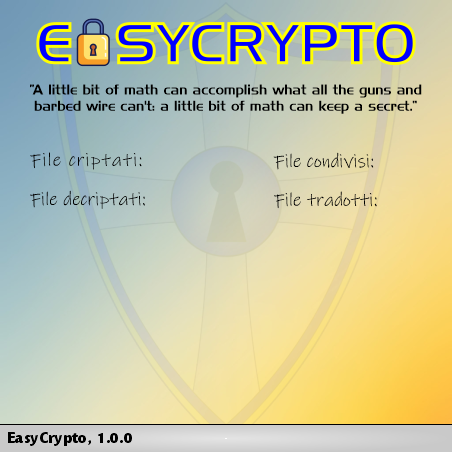
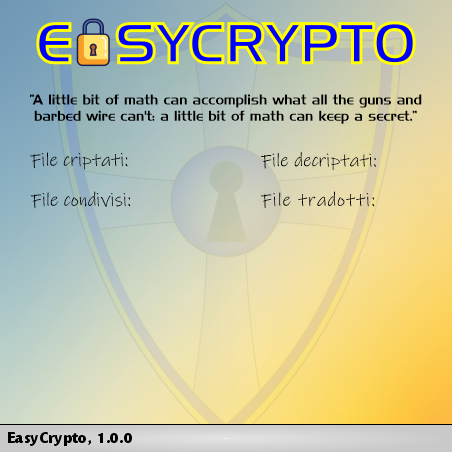
MainGui improvements
- Final details on the MainGui interface have been completed.
- Improved the readability of the MainGui code (not finished yet)
- Bug fixes

diff --git a/src/MainGui.py b/src/MainGui.py
@@ -1,103 +1,156 @@
-import os.path
-
+import os
 import web
-import alerts
+import alerts as alt
 import tkinter as tk
-import local_crypter as lc
-from counter import Counter
-import passwordgui as pwgui
-from rsa_utils import Share
 from config import Config
+import local_crypter as lc
+import passwordgui as pwgui
+from counter import Counter
+from rsa_utils import Share
 import rsa_encryption as rsa
 from tkinter import filedialog
 from getusernamegui import get_username
 
 
-def init():
-    win = tk.Tk()
+class MainGui:
 
-    WIDTH = 450
-    HEIGHT = 450
+    def __init__(self):
 
-    WINDOW_ICON = tk.PhotoImage(file='res/logo.png', master=win)
-    BACKGROUND_IMAGE = tk.PhotoImage(file='res/background.png', master=win)
-    CRYPT_IMAGE = tk.PhotoImage(file='res/crypt.png', master=win)
-    CRYPT_IMAGE_HOVERED = tk.PhotoImage(file='res/crypt_hovered.png', master=win)
-    DECRYPT_IMAGE = tk.PhotoImage(file='res/decrypt.png', master=win)
-    DECRYPT_IMAGE_HOVERED = tk.PhotoImage(file='res/decrypt_hovered.png', master=win)
-    SHARE_IMAGE = tk.PhotoImage(file='res/share.png', master=win)
-    SHARE_IMAGE_HOVERED = tk.PhotoImage(file='res/share_hovered.png', master=win)
-    DECRYPT_EXTERNAL_FILE_IMAGE = tk.PhotoImage(file='res/decrypt_external_file.png', master=win)
-    DECRYPT_EXTERNAL_FILE_IMAGE_HOVERED = tk.PhotoImage(file='res/decrypt_external_file_hovered.png', master=win)
-    INFO_IMAGE = tk.PhotoImage(file='res/info.png', master=win)
-    INFO_IMAGE_HOVERED = tk.PhotoImage(file='res/info_hovered.png', master=win)
-    GITHUB_IMAGE = tk.PhotoImage(file='res/github.png', master=win)
-    GITHUB_IMAGE_HOVERED = tk.PhotoImage(file='res/github_hovered.png', master=win)
-    SETTINGS_IMAGE = tk.PhotoImage(file='res/settings.png', master=win)
-    SETTINGS_IMAGE_HOVERED = tk.PhotoImage(file='res/settings_hovered.png', master=win)
+        self.win = tk.Tk()
 
-    x = int(win.winfo_screenwidth() / 2 - (WIDTH / 2))
-    y = int(win.winfo_screenheight() / 2 - (HEIGHT / 2))
+        self.WIDTH = 450
+        self.HEIGHT = 450
+        self.WINDOW_ICON = tk.PhotoImage(file='res/logo.png', master=self.win)
+        self.BACKGROUND_IMAGE = tk.PhotoImage(file='res/background.png', master=self.win)
+        self.x = int(self.win.winfo_screenwidth() / 2 - (self.WIDTH / 2))
+        self.y = int(self.win.winfo_screenheight() / 2 - (self.HEIGHT / 2))
 
-    win.title('EasyCrypto')
-    win.geometry(str(WIDTH) + 'x' + str(HEIGHT) + '+' + str(x) + '+' + str(y))
-    win.resizable(False, False)
-    win.iconphoto(True, WINDOW_ICON)
-    win.protocol("WM_DELETE_WINDOW", lambda: correct_closing(win))
+        self.win.title('EasyCrypto')
+        self.win.geometry(str(self.WIDTH) + 'x' + str(self.HEIGHT) + '+' + str(self.x) + '+' + str(self.y))
+        self.win.resizable(False, False)
+        self.win.iconphoto(True, self.WINDOW_ICON)
+        self.win.protocol("WM_DELETE_WINDOW", lambda: self.correct_closing())
+        self.bg = tk.Canvas(self.win, width=450, height=450)
+        self.bg.create_image(226, 226, image=self.BACKGROUND_IMAGE)
 
-    # functions
+        self.counter_font = ('Courier', 14)
+        self.readme = 'https://github.com/RichardBoy05/EasyCrypto/blob/main/README.md'
+        self.explorer_files = [('Tutti i file', '*.*')]
 
-    def execute(is_encrypted, is_internal):
+        enc_text = Config.parse_with_key('TotalEncryptions', True)
+        dec_text = Config.parse_with_key('TotalDecryptions', True)
+        shr_text = Config.parse_with_key('TotalShares', True)
+        trs_text = Config.parse_with_key('TotalTranslations', True)
+        self.encrypt_count = self.bg.create_text(162, 161, text=enc_text, font=self.counter_font, anchor='center')
+        self.decrypt_count = self.bg.create_text(412, 161, text=dec_text, font=self.counter_font, anchor='center')
+        self.share_count = self.bg.create_text(162, 200, text=shr_text, font=self.counter_font, anchor='center')
+        self.translate_count = self.bg.create_text(412, 200, text=trs_text, font=self.counter_font, anchor='center')
 
-        files = [('Tutti i file', '*.*')]
-        path = tk.filedialog.askopenfilenames(title='Seleziona uno o più file...', filetypes=files)
+        ENC_IMG = tk.PhotoImage(file='res/crypt.png', master=self.win)
+        ENC_IMG_HOV = tk.PhotoImage(file='res/crypt_hovered.png', master=self.win)
+        DEC_IMG = tk.PhotoImage(file='res/decrypt.png', master=self.win)
+        DEC_IMG_HOV = tk.PhotoImage(file='res/decrypt_hovered.png', master=self.win)
+        SHR_IMG = tk.PhotoImage(file='res/share.png', master=self.win)
+        SHR_IMG_HOV = tk.PhotoImage(file='res/share_hovered.png', master=self.win)
+        TRS_IMG = tk.PhotoImage(file='res/translate.png', master=self.win)
+        TRS_IMG_HOV = tk.PhotoImage(file='res/translate_hovered.png', master=self.win)
+        INFO_IMG = tk.PhotoImage(file='res/info.png', master=self.win)
+        INFO_IMG_HOV = tk.PhotoImage(file='res/info_hovered.png', master=self.win)
+        GIT_IMG = tk.PhotoImage(file='res/github.png', master=self.win)
+        GIT_IMG_HOV = tk.PhotoImage(file='res/github_hovered.png', master=self.win)
+        SETTINGS_IMG = tk.PhotoImage(file='res/settings.png', master=self.win)
+        SETTINGS_IMG_HOV = tk.PhotoImage(file='res/settings_hovered.png', master=self.win)
+
+        # widgets
+
+        enc_but = tk.Button(self.win, image=ENC_IMG, bd=0, bg='#0c11a8', command=lambda: self.execute('encrypt'))
+        dec_but = tk.Button(self.win, image=DEC_IMG, bd=0, bg='#f0a000', command=lambda: self.execute('decrypt'))
+        shr_but = tk.Button(self.win, image=SHR_IMG, bd=0, bg='#0c11a8', command=lambda: self.execute('share'))
+        trs_but = tk.Button(self.win, image=TRS_IMG, bd=0, bg='#f0a000', command=lambda: self.execute('translate'))
+        info_lab = tk.Label(self.win, image=INFO_IMG, bd=0, bg='#cbcbcb')
+        git_lab = tk.Label(self.win, image=GIT_IMG, bd=0, bg='#cbcbcb')
+        settings_lab = tk.Label(self.win, image=SETTINGS_IMG, bd=0, bg='#cbcbcb')
+
+        # Hover events
+
+        enc_but.bind("<Enter>", lambda _: enc_but.config(image=ENC_IMG_HOV))
+        enc_but.bind("<Leave>", lambda _: enc_but.config(image=ENC_IMG))
+        dec_but.bind("<Enter>", lambda _: dec_but.config(image=DEC_IMG_HOV))
+        dec_but.bind("<Leave>", lambda _: dec_but.config(image=DEC_IMG))
+        shr_but.bind("<Enter>", lambda _: shr_but.config(image=SHR_IMG_HOV))
+        shr_but.bind("<Leave>", lambda _: shr_but.config(image=SHR_IMG))
+        trs_but.bind("<Enter>", lambda _: trs_but.config(image=TRS_IMG_HOV))
+        trs_but.bind("<Leave>", lambda _: trs_but.config(image=TRS_IMG))
+        info_lab.bind("<Enter>", lambda _: info_lab.config(image=INFO_IMG_HOV))
+        info_lab.bind("<Leave>", lambda _: info_lab.config(image=INFO_IMG))
+        info_lab.bind("<Button-1>", lambda _: web.Browser(self.readme).search())
+        git_lab.bind("<Enter>", lambda _: git_lab.config(image=GIT_IMG_HOV))
+        git_lab.bind("<Leave>", lambda _: git_lab.config(image=GIT_IMG))
+        git_lab.bind("<Button-1>", lambda _: web.Browser('https://github.com/RichardBoy05/EasyCrypto').search())
+        settings_lab.bind("<Enter>", lambda _: settings_lab.config(image=SETTINGS_IMG_HOV))
+        settings_lab.bind("<Leave>", lambda _: settings_lab.config(image=SETTINGS_IMG))
+
+        # placing
+
+        self.bg.place(x=-2, y=-2)
+        enc_but.place(x=28, y=237)
+        dec_but.place(x=248, y=237)
+        trs_but.place(x=248, y=337)
+        shr_but.place(x=28, y=337)
+        info_lab.place(x=363, y=428)
+        git_lab.place(x=391, y=428)
+        settings_lab.place(x=419, y=428)
+
+        self.win.mainloop()
+
+    def execute(self, task):
+
+        path = tk.filedialog.askopenfilenames(title='Seleziona uno o più file...', filetypes=self.explorer_files)
 
         if not path:
             return
 
-        if not is_encrypted and is_internal:
-            result = pwgui.ask_password(win, True, True if len(path) == 1 else False)
-            password = result[0]
-            keep_copy = result[1]
-
+        if task == 'encrypt':
+            result = pwgui.ask_password(self.win, True, True if len(path) == 1 else False)
+            password, keepcopy = result
             if not password:
                 return
 
-            has_been_encrypted = [lc.encrypt(win, i, password.encode('utf-8'), keep_copy) for i in path]
+            has_been_encrypted = [lc.encrypt(self.win, i, password.encode('utf-8'), keepcopy) for i in path]
 
             for i in has_been_encrypted:
                 if i:
-                    Counter(win, background_canv.itemcget(encrypt_count, 'text'), encrypt_count).update('TotalEncryptions')
+                    Counter(self.win, self.bg.itemcget(self.encrypt_count, 'text'),
+                            self.encrypt_count).update('TotalEncryptions')
 
             if all(has_been_encrypted):
-                alerts.encrypted_successfully_alert(len(path))
+                alt.encrypted_successfully_alert(len(path))
             return
 
-        if is_encrypted and is_internal:
-            result = pwgui.ask_password(win, False, True if len(path) == 1 else False)
-            password = result[0]
-            keep_copy = result[1]
-
+        if task == 'decrypt':
+            result = pwgui.ask_password(self.win, False, True if len(path) == 1 else False)
+            password, keepcopy = result
             if not password:
                 return
 
-            has_been_decrypted = [lc.decrypt(win, i, password.encode('utf-8'), keep_copy) for i in path]
+            has_been_decrypted = [lc.decrypt(self.win, i, password.encode('utf-8'), keepcopy) for i in path]
 
             for i in has_been_decrypted:
                 if i:
-                    Counter(win, background_canv.itemcget(decrypt_count, 'text'), decrypt_count).update('TotalDecryptions')
+                    Counter(self.win, self.bg.itemcget(self.decrypt_count, 'text'),
+                            self.decrypt_count).update('TotalDecryptions')
 
             if all(has_been_decrypted):
-                alerts.decrypted_successfully_alert(len(path))
+                alt.decrypted_successfully_alert(len(path))
             return
 
-        if not is_encrypted and not is_internal:
+        if task == 'share':
 
             fixed_path = [i for i in path if not Share.is_already_shared(i)]
             if len(fixed_path) == 0:
                 return
 
-            username = get_username(win)
+            username = get_username(self.win)
             if username is None:
                 return
 
@@ -105,89 +158,34 @@ def init():
 
             for i in has_been_shared:
                 if i:
-                    Counter(win, background_canv.itemcget(share_count, 'text'), share_count).update('TotalShares')
+                    Counter(self.win, self.bg.itemcget(self.share_count, 'text'), self.share_count).update('TotalShares')
 
             if all(has_been_shared):
-                alerts.shared_successfully_alert(len(fixed_path))
+                alt.shared_successfully_alert(len(fixed_path))
             return
 
-        if is_encrypted and not is_internal:
+        if task == 'translate':
 
             has_been_translated = [rsa.translate(i) for i in path]
 
             for i in has_been_translated:
                 if i:
-                    Counter(win, background_canv.itemcget(share_count, 'text'), translate_count).update('TotalTranslations')
+                    Counter(self.win, self.bg.itemcget(self.share_count, 'text'),
+                            self.translate_count).update('TotalTranslations')
 
             if all(has_been_translated):
-                alerts.translated_successfully_alert(len(path))
+                alt.translated_successfully_alert(len(path))
             return
 
-    def show_settings():
-        pass
+    def correct_closing(self):
+        PATH = os.path.join(os.getenv('APPDATA'), 'EasyCrypto')
+        CRYPT_PATH = os.path.join(PATH, 'crypt')
 
-    # widgets
+        if os.path.exists(os.path.join(CRYPT_PATH, "firstboot")):
+            os.remove(os.path.join(CRYPT_PATH, "firstboot"))
 
-    counter_font = ('Courier', 14)
-
-    background_canv = tk.Canvas(win, width=450, height=450)
-    background_canv.create_image(226, 226, image=BACKGROUND_IMAGE)
-    encrypt_but = tk.Button(win, image=CRYPT_IMAGE, borderwidth=0, bg='#0c11a8', command=lambda: execute(False, True))
-    decrypt_but = tk.Button(win, image=DECRYPT_IMAGE, borderwidth=0, bg='#f0a000', command=lambda: execute(True, True))
-    share_but = tk.Button(win, image=SHARE_IMAGE, borderwidth=0, bg='#0c11a8', command=lambda: execute(False, False))
-    decrypt_external_file_but = tk.Button(win, image=DECRYPT_EXTERNAL_FILE_IMAGE, borderwidth=0, bg='#f0a000',
-                                          command=lambda: execute(True, False))
-    info_lab = tk.Label(win, image=INFO_IMAGE, borderwidth=0, bg='#cbcbcb')
-    github_lab = tk.Label(win, image=GITHUB_IMAGE, borderwidth=0, bg='#cbcbcb')
-    settings_lab = tk.Label(win, image=SETTINGS_IMAGE, borderwidth=0, bg='#cbcbcb')
-
-    encrypt_count = background_canv.create_text(154, 161, text=Config.parse_with_key('TotalEncryptions', True), font=counter_font, anchor='w')
-    decrypt_count = background_canv.create_text(154, 200, text=Config.parse_with_key('TotalDecryptions', True), font=counter_font, anchor='w')
-    share_count = background_canv.create_text(387, 161, text=Config.parse_with_key('TotalShares', True), font=counter_font, anchor='w')
-    translate_count = background_canv.create_text(387, 200, text=Config.parse_with_key('TotalTranslations', True), font=counter_font, anchor='w')
-
-    # Hover events
-
-    encrypt_but.bind("<Enter>", lambda _: encrypt_but.config(image=CRYPT_IMAGE_HOVERED))
-    encrypt_but.bind("<Leave>", lambda _: encrypt_but.config(image=CRYPT_IMAGE))
-    decrypt_but.bind("<Enter>", lambda _: decrypt_but.config(image=DECRYPT_IMAGE_HOVERED))
-    decrypt_but.bind("<Leave>", lambda _: decrypt_but.config(image=DECRYPT_IMAGE))
-    share_but.bind("<Enter>", lambda _: share_but.config(image=SHARE_IMAGE_HOVERED))
-    share_but.bind("<Leave>", lambda _: share_but.config(image=SHARE_IMAGE))
-    decrypt_external_file_but.bind("<Enter>", lambda _: decrypt_external_file_but.config(
-        image=DECRYPT_EXTERNAL_FILE_IMAGE_HOVERED))
-    decrypt_external_file_but.bind("<Leave>",
-                                   lambda _: decrypt_external_file_but.config(image=DECRYPT_EXTERNAL_FILE_IMAGE))
-    info_lab.bind("<Enter>", lambda _: info_lab.config(image=INFO_IMAGE_HOVERED))
-    info_lab.bind("<Leave>", lambda _: info_lab.config(image=INFO_IMAGE))
-    info_lab.bind("<Button-1>",
-                  lambda _: web.Browser('https://github.com/RichardBoy05/EasyCrypto/blob/main/README.md').search())
-    github_lab.bind("<Enter>", lambda _: github_lab.config(image=GITHUB_IMAGE_HOVERED))
-    github_lab.bind("<Leave>", lambda _: github_lab.config(image=GITHUB_IMAGE))
-    github_lab.bind("<Button-1>", lambda _: web.Browser('https://github.com/RichardBoy05/EasyCrypto').search())
-    settings_lab.bind("<Enter>", lambda _: settings_lab.config(image=SETTINGS_IMAGE_HOVERED))
-    settings_lab.bind("<Leave>", lambda _: settings_lab.config(image=SETTINGS_IMAGE))
-    settings_lab.bind("<Button-1>", lambda _: show_settings())
-
-    # placing
-
-    background_canv.place(x=-2, y=-2)
-    encrypt_but.place(x=34, y=230)
-    decrypt_but.place(x=244, y=230)
-    decrypt_external_file_but.place(x=244, y=330)
-    share_but.place(x=34, y=330)
-    info_lab.place(x=363, y=428)
-    github_lab.place(x=391, y=428)
-    settings_lab.place(x=419, y=428)
-
-    win.mainloop()
+        self.win.destroy()
 
 
-def correct_closing(win):
-    PATH = os.path.join(os.getenv('APPDATA'), 'EasyCrypto')
-    CRYPT_PATH = os.path.join(PATH, 'crypt')
-
-    if os.path.exists(os.path.join(CRYPT_PATH, "firstboot")):
-        os.remove(os.path.join(CRYPT_PATH, "firstboot"))
-
-    win.destroy()
+def init():
+    MainGui()

diff --git a/src/rsa_utils.py b/src/rsa_utils.py
@@ -155,7 +155,13 @@ class Translate(RsaUtils):
         log = Logger(__name__).default()
 
         with open(path, 'rb') as file:
-            content = file.read().decode('utf-8')
+            try:
+                content = file.read().decode('utf-8')
+            except UnicodeDecodeError:
+                log.warning('UnicodeDecodeError', exc_info=True)
+                alerts.not_shared_alert()
+                return None
+
         try:
             metadata = content.split('----[METADATA]--->', 1)[1]
         except IndexError:

diff --git a/src/counter.py b/src/counter.py
@@ -13,6 +13,3 @@ class Counter:
         self.win.nametowidget('.!canvas').itemconfig(self.canvaid, text=str(new_value))
         Config.edit_key_value_pair(key, new_value)
 
-    @staticmethod
-    def get_current_amount():
-        pass
